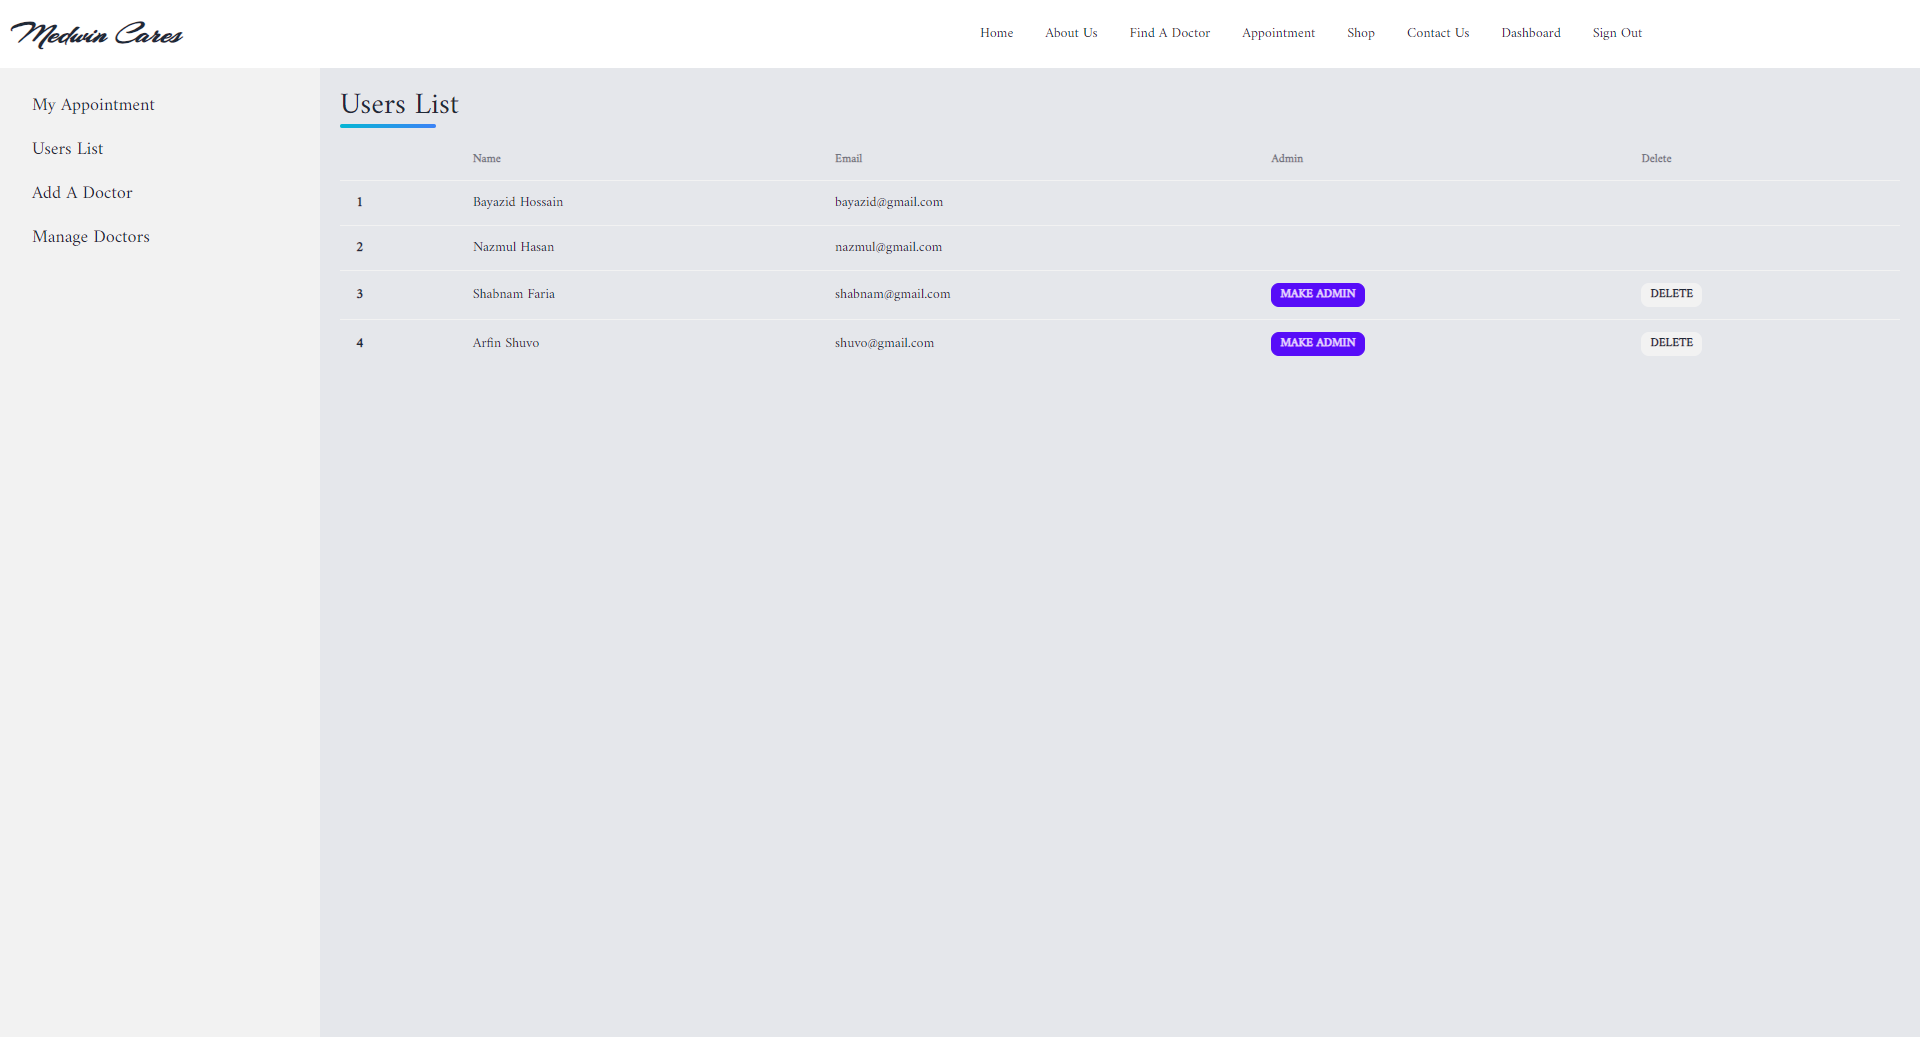
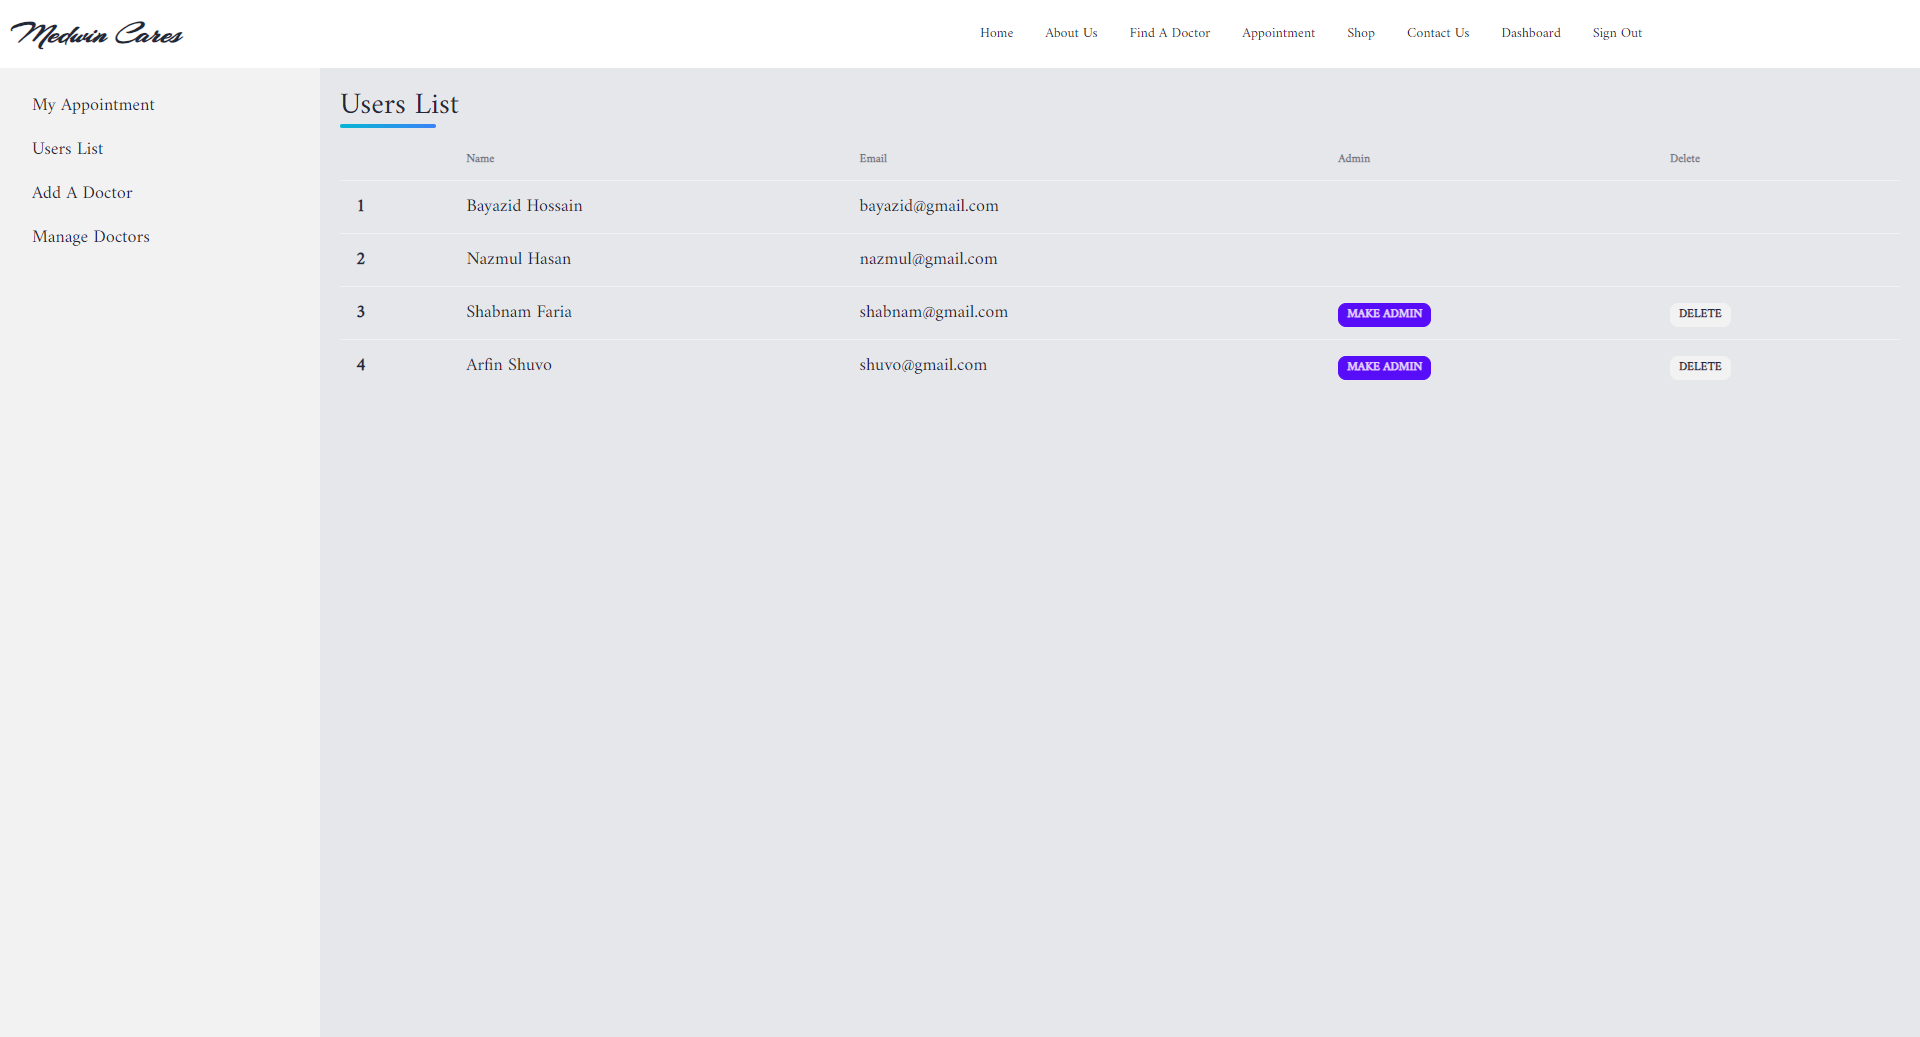
image changed

diff --git a/src/Pages/Dashboard/MyAppointment/MyAppointment.js b/src/Pages/Dashboard/MyAppointment/MyAppointment.js
@@ -30,7 +30,7 @@ const MyAppointment = () => {
             <h3 className="text-3xl">My Appointments</h3>
             <div className="bg-gradient-to-r from-cyan-500 to-blue-500 py-[2px] rounded-lg mb-3 w-24"></div>
             <div className="overflow-x-auto">
-                <table className="table w-full">
+                <table className="table w-full text-lg">
                     <thead>
                         <tr>
                             <th></th>

diff --git a/src/Pages/Dashboard/ManageDoctors/ManageDoctors.js b/src/Pages/Dashboard/ManageDoctors/ManageDoctors.js
@@ -53,7 +53,7 @@ const ManageDoctors = () => {
             <h1 className='text-3xl'>Manage Doctors</h1>
             <div className="bg-gradient-to-r from-cyan-500 to-blue-500 py-[2px] rounded-lg mb-3 w-24"></div>
             <div className="overflow-x-auto">
-                <table className="table">
+                <table className="table text-lg">
                     <thead>
                         <tr>
                             <th></th>

diff --git a/src/Pages/Dashboard/AllUsers/AllUsers.js b/src/Pages/Dashboard/AllUsers/AllUsers.js
@@ -51,7 +51,7 @@ const AllUsers = () => {
             <h2 className="text-3xl">Users List</h2>
             <div className="bg-gradient-to-r from-cyan-500 to-blue-500 py-[2px] rounded-lg mb-3 w-24"></div>
             <div className="overflow-x-auto">
-  <table className="table w-full">
+  <table className="table w-full text-lg">
     <thead>
       <tr>
         <th></th>
